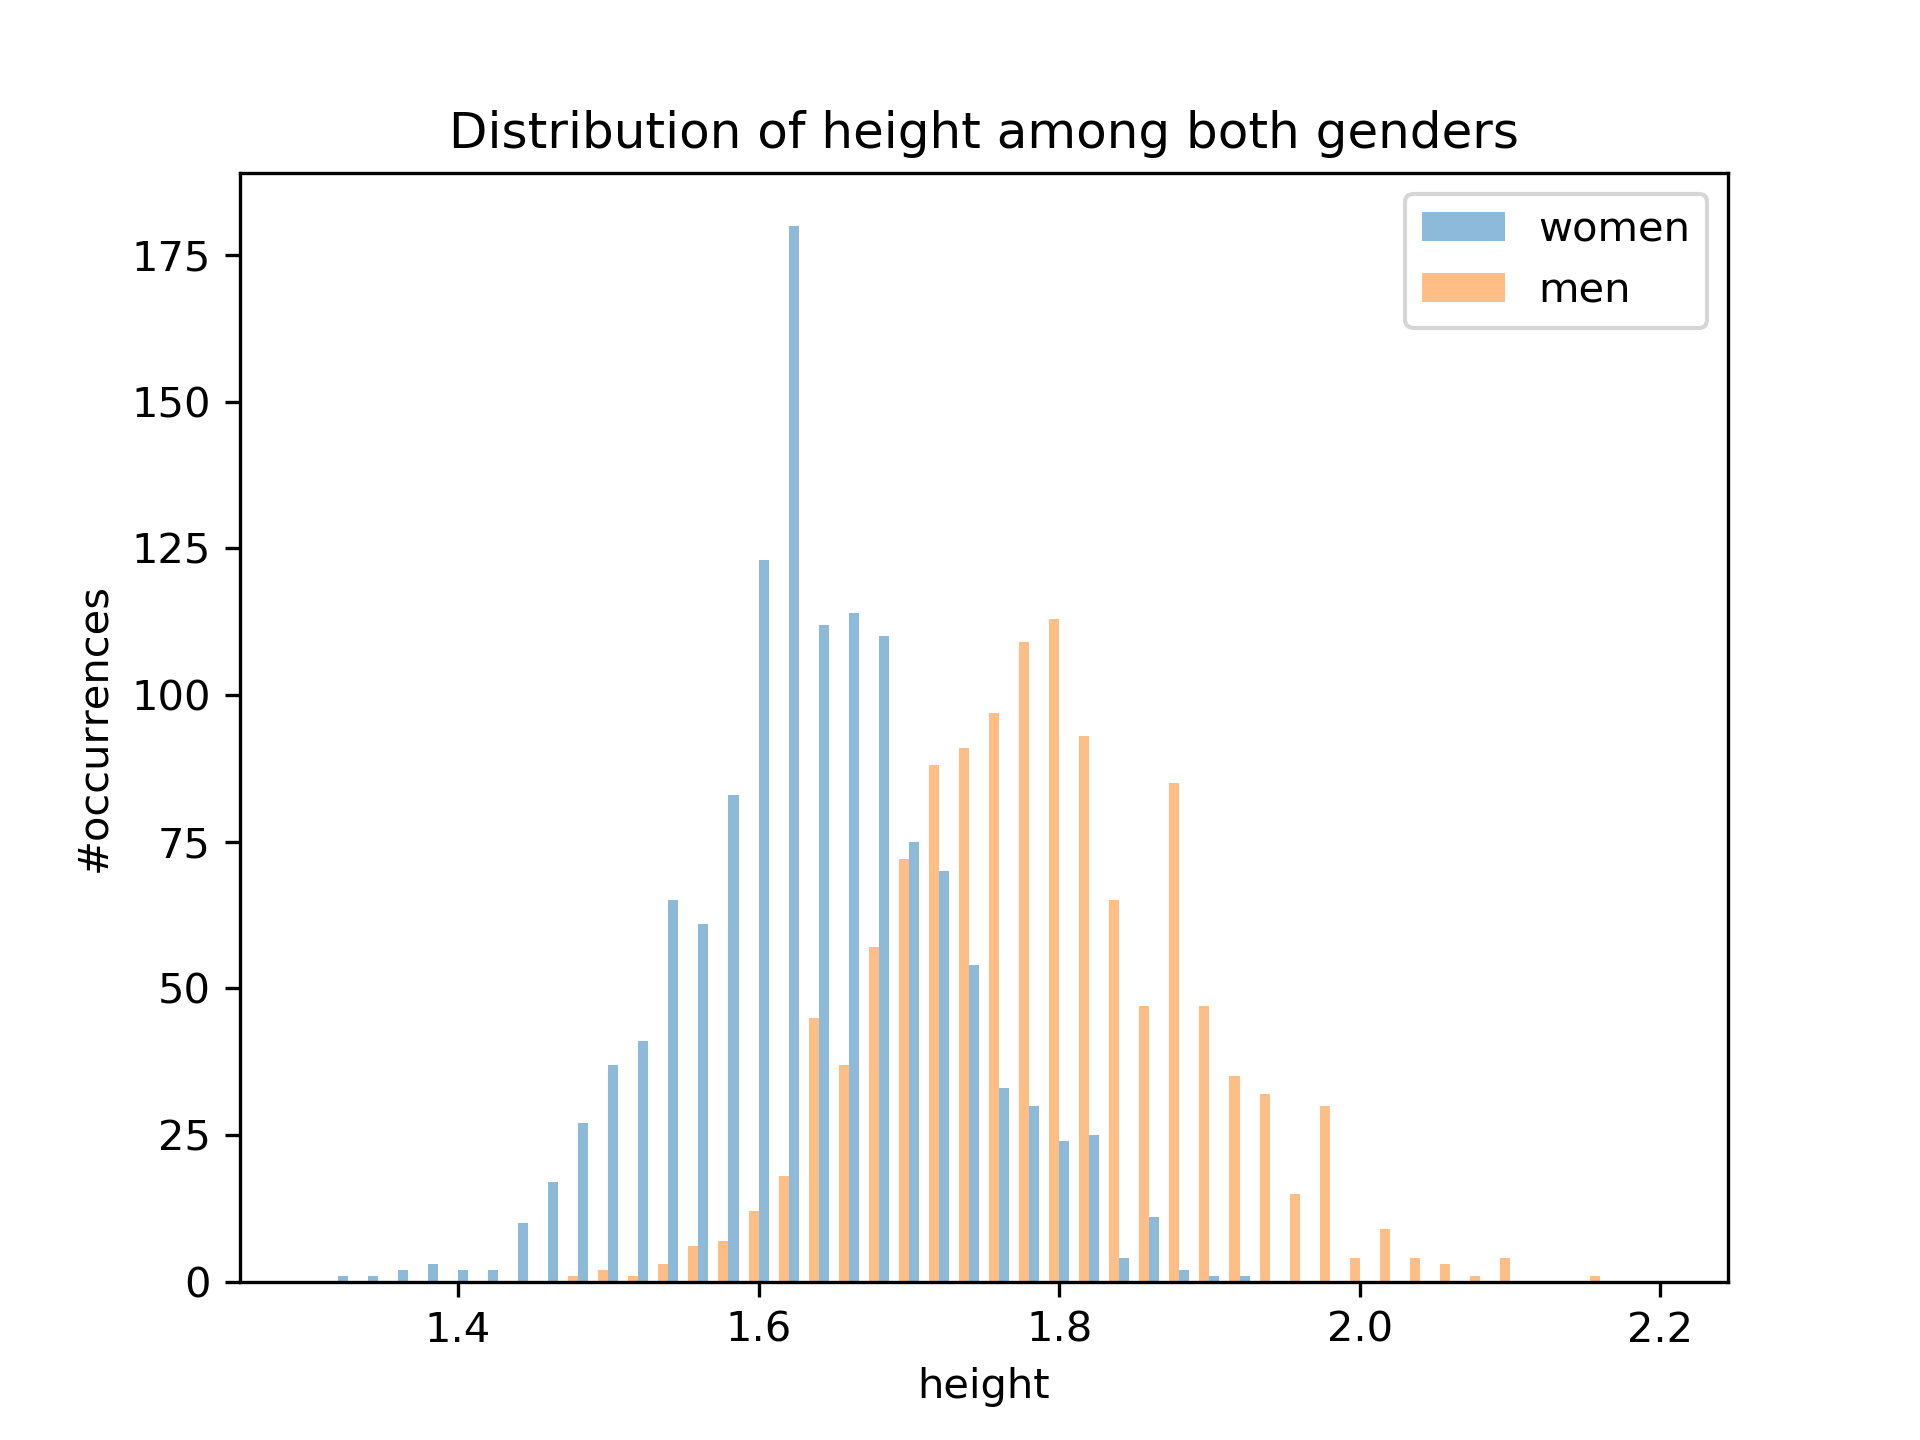
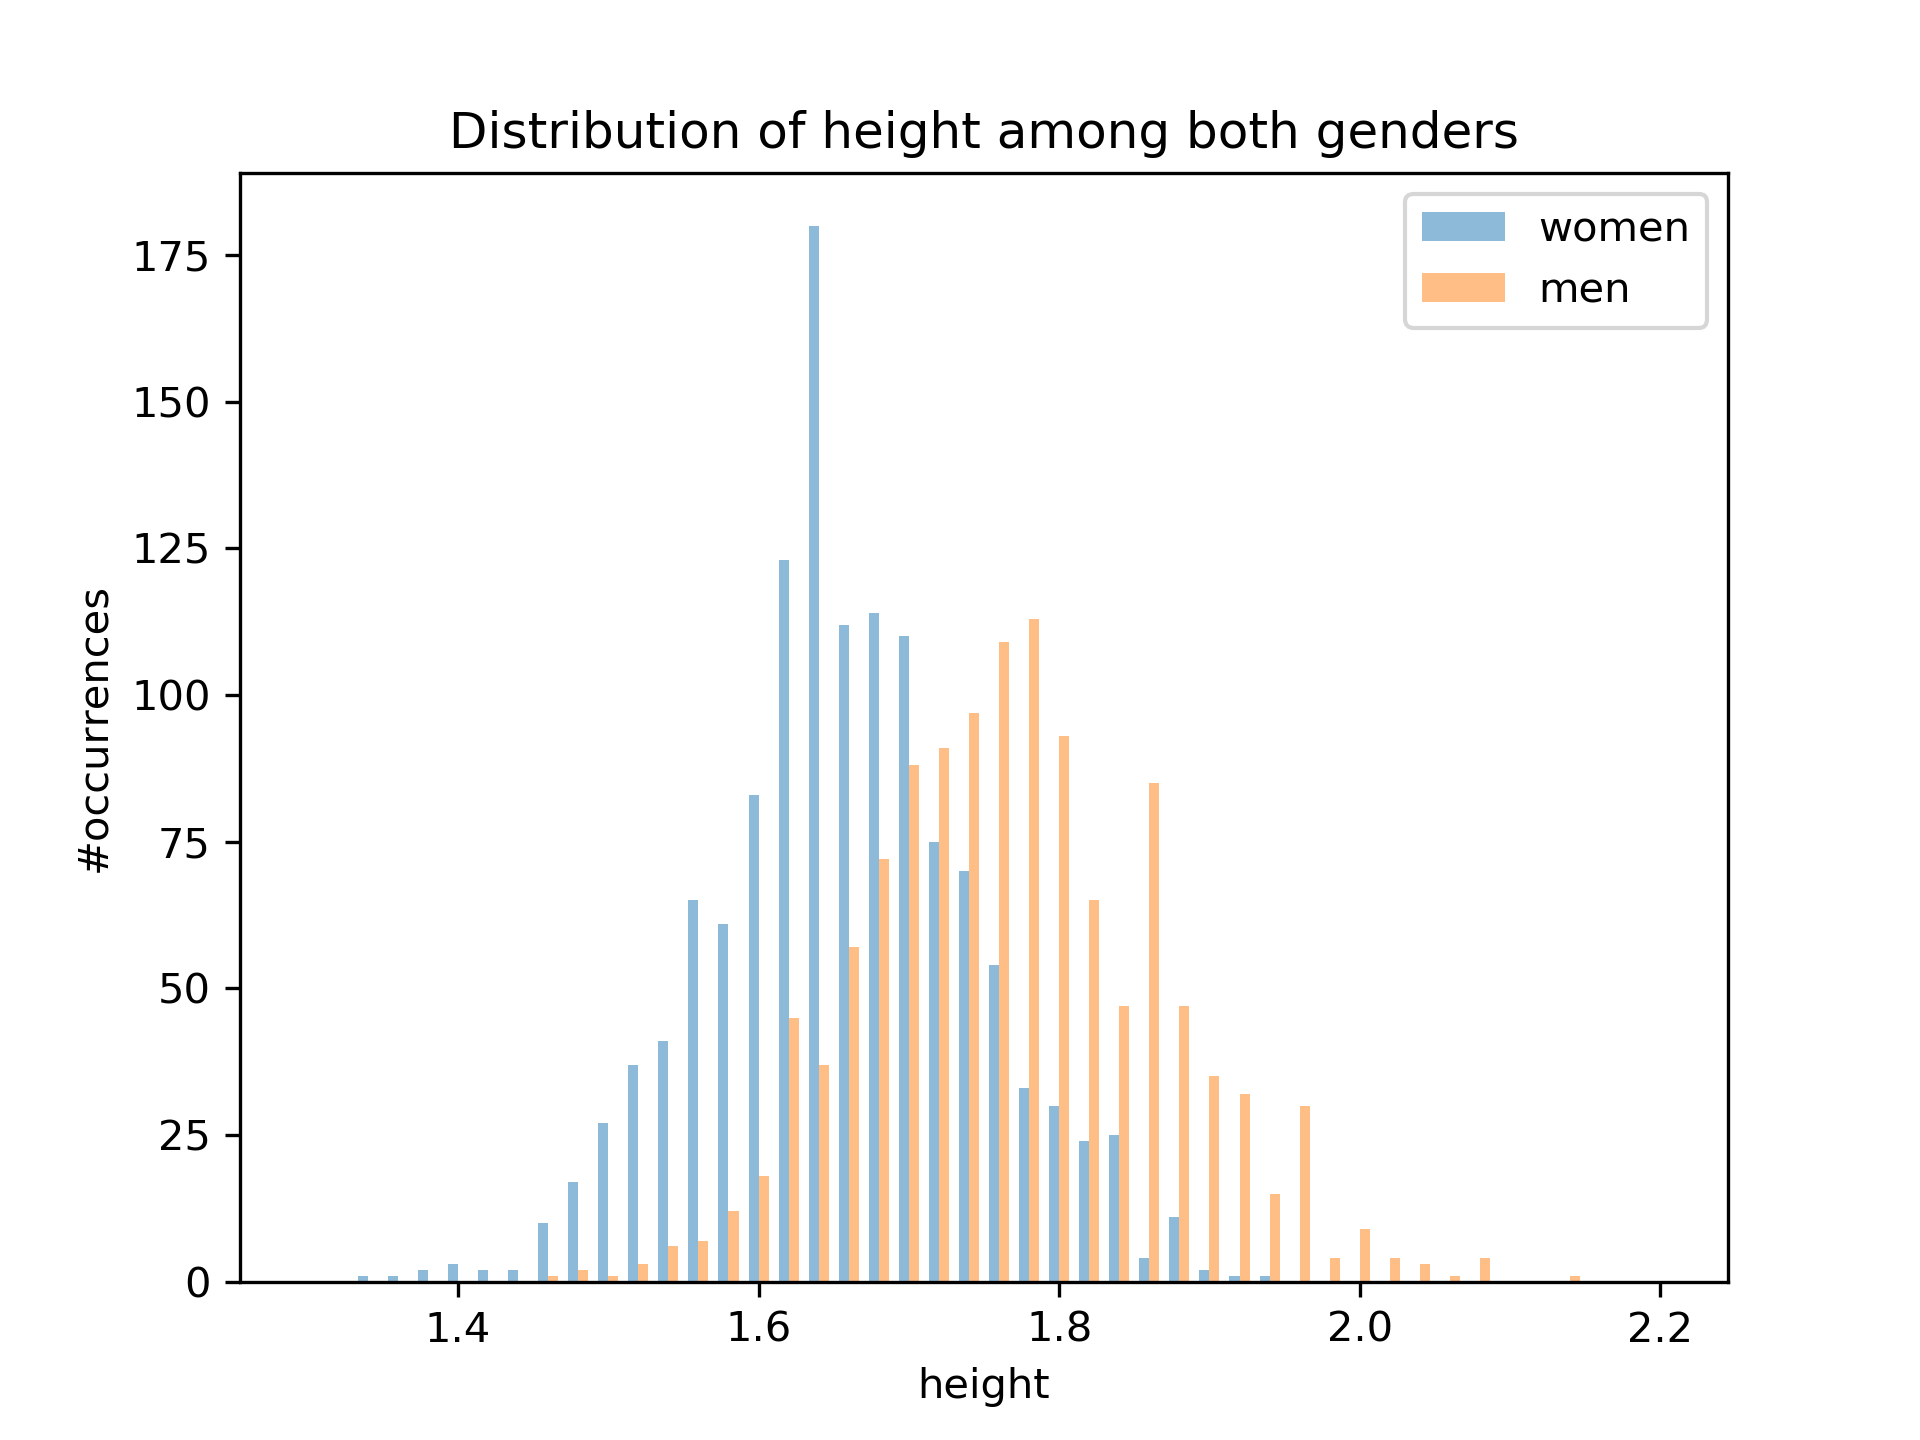
improvment of the comments

Changed region(s): [[0.1875, 0.1562, 0.7812, 0.9062]]

diff --git a/src/utils.py b/src/utils.py
@@ -1,5 +1,5 @@
 ##################################################################
-# Description:
+# Description: Defintion of all the functions/modules useful to plot statistics from the database ./data/data.csv. The modules are used in ./src/main.py.
 # Code name: ./src/utils.py
 # Date of creation: 2019/03/12
 # Date of last modification: 2019/03/14
@@ -12,17 +12,17 @@ import pandas as pd
 import matplotlib.pyplot as plt
 
 def read_data(file):
-    """ description """
+    """ Read the content of a .csv file and putting it in the dataframe (using pandas). Headers are considered. """
     data = pd.read_csv(file)
     return data
 
 def sort_data(df,gender):
-    """ description """
+    """ Sort a dataframe of statistics of men and women. The output is a sub-dataframe containing only men or only women statistics. """
     sorted_df = df[df['gender'].isin([gender])]
     return sorted_df
 
 def choose_bins(df,var,step):
-    """ description """
+    """ Selection of bins consistent with the statistics of the dataframe. For age statitics: getting the previous integer of the minimum value as a lower limit and the next integer of the maximum value as an upper limit. For height statistics: similar, but with a 10^-1 precision. One bin per year for age, one bin every 2cm for height. """
     if step == 1.:
         bin_1   = round(np.min(df[var].values))
         bin_n   = round(np.max(df[var].values))+1
@@ -34,18 +34,18 @@ def choose_bins(df,var,step):
     return bin_1,bin_n,bins
 
 def plot_histogram(list,bin_1,bin_n,bins,side,label):
-    """ description """
+    """ Plot histogram for statistics of one gender in particular. Use the left/right part of each bin if women/men statistics are plotted. """
     counts_list, bin_edges_list = np.histogram(list, bins=bins,range=(bin_1,bin_n))
     column_width = np.min(bin_edges_list[1:] - bin_edges_list[:-1])/3.
     if side == 'left':
-        column_spot = 0.5*(bin_edges_list[1:]+bin_edges_list[:-1])-column_width
-    elif side == 'right':
         column_spot = 0.5*(bin_edges_list[1:]+bin_edges_list[:-1])+column_width
+    elif side == 'right':
+        column_spot = 0.5*(bin_edges_list[1:]+bin_edges_list[:-1])-column_width
     plt.bar(column_spot,counts_list,label=label,alpha=0.5, width=column_width)
     return column_spot,column_width
 
 def doublehistogram(df,var,step,res,path):
-    """ description """
+    """ Construction and saving of the figure illustrating statistics of both men and women. Figure is saved in the folder 'path'. """
     df_F = sort_data(df,'F')
     df_M = sort_data(df,'M')
     bin_1,bin_n,bins = choose_bins(df,var,step)

diff --git a/src/tests/test_utils.py b/src/tests/test_utils.py
@@ -13,7 +13,6 @@ import src.utils as fct
 import numpy as np
 import pandas as pd
 import matplotlib.pyplot as plt
-import pytest
 
 # Definition of the dataset to test
 path_data   = './data/'                         # where to find the dataset
@@ -53,6 +52,6 @@ class TestClass:
     def test_doublehistogram(self):
         """ test of the doublehistogram function """
         data_to_test = fct.read_data(file)
-        spot1,spot2,width1,width2 = fct.doublehistogram(data_to_test,list(data_to_test)[1],1.,300,'./figures/')
+        spot1,spot2,width1,width2 = fct.doublehistogram(data_to_test,list(data_to_test)[1],1.,300,'./figures/tests/')
         assert round(width1,2) == round(width2,2)
         assert round(spot1[0]+width1,2) == round(spot2[0]-width1,2)

diff --git a/src/main_improved.py b/src/main_improved.py
@@ -1,5 +1,5 @@
 ##################################################################
-# Description:
+# Description: Main code to plot statistics (in histogram) of age and height of a database of men and women. Men and women are separated here to give two distinguishable distribution. Histograms are stored in ./figures.
 # Code name: ./src/main.py
 # Date of creation: 2019/03/12
 # Date of last modification: 2019/03/14
